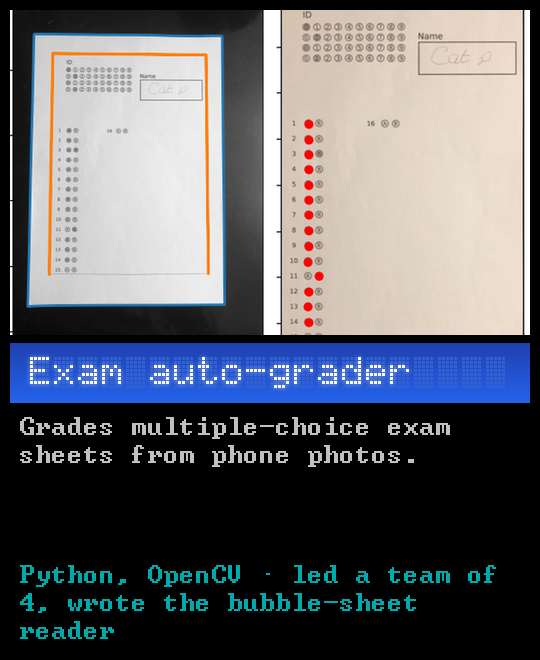
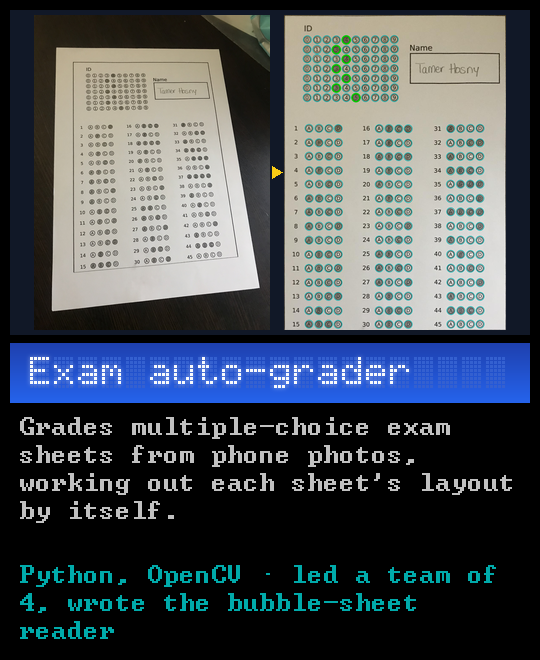
Exam card: show the 45-question tilted-photo sheet the reader handles
Picture from running bubble_sheet.ipynb on Bubble_sheet/4/IMG_2039.jpg:
all 250 bubbles found and row-sorted, student ID 4343435 read.

diff --git a/README.md b/README.md
@@ -14,7 +14,7 @@
 <a href="https://github.com/Negm2000/ATmega32-Star-Framework"><img src="assets/projects/drivers.gif" width="270" alt="AVR driver framework. Drivers for a microcontroller&#x27;s timer, serial port and display, written from the datasheet. C, ATmega32. Picture: A clock ticking on a character display driven by a simulated microcontroller."></a>
 <a href="https://github.com/Negm2000/Tram-DC-Drive-Simulink"><img src="assets/projects/tram.png" width="270" alt="Tram traction drive. Speed control for the motor of a 25-tonne tram, in simulation. Simulink. Picture: Plot of a tram&#x27;s measured speed following the requested speed."></a>
 <a href="https://github.com/Negm2000/AVR-Traffic-Light"><img src="assets/projects/traffic.gif" width="270" alt="AVR traffic light. Traffic light with a pedestrian button, running on a bare microcontroller. C, ATmega32 - my own timer and interrupt drivers. Picture: Simulated traffic-light circuit reacting to the pedestrian button."></a>
-<a href="https://github.com/Negm2000/exam-autograder"><img src="assets/projects/exam.png" width="270" alt="Exam auto-grader. Grades multiple-choice exam sheets from phone photos. Python, OpenCV - led a team of 4, wrote the bubble-sheet reader. Picture: Photo of an exam sheet and the same sheet with the chosen answers marked."></a>
+<a href="https://github.com/Negm2000/exam-autograder"><img src="assets/projects/exam.png" width="270" alt="Exam auto-grader. Grades multiple-choice exam sheets from phone photos, working out each sheet&#x27;s layout by itself. Python, OpenCV - led a team of 4, wrote the bubble-sheet reader. Picture: A tilted phone photo of a 45-question sheet next to the straightened sheet with all 250 bubbles found and the student ID read."></a>
 <a href="https://github.com/Negm2000/snakes-and-ladders-cpp"><img src="assets/projects/snakes.png" width="270" alt="Snakes &amp; Ladders. Four-player game with Monopoly-style cards and a board editor. C++ - team of 4, I wrote the play-mode actions and save/load. Picture: Snakes and Ladders board with ladders, snakes and cards."></a>
 </p>
 
